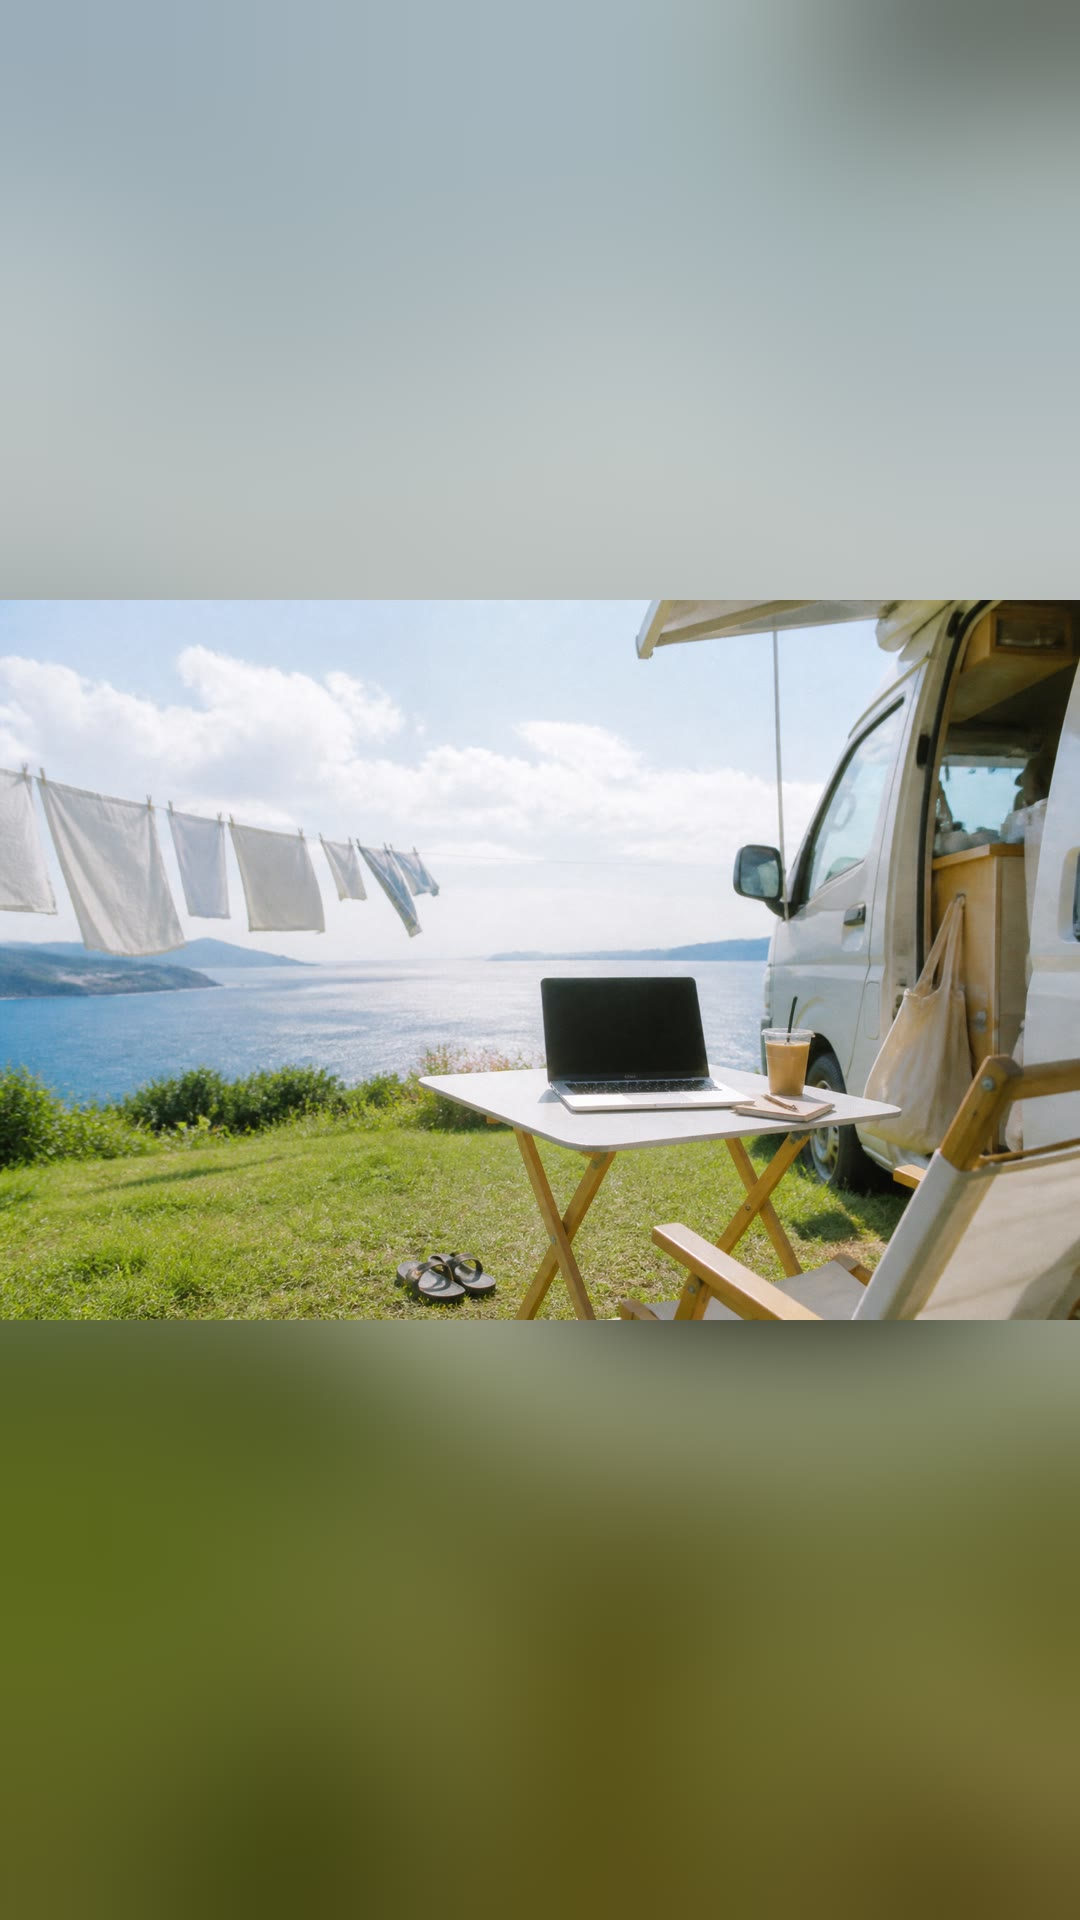
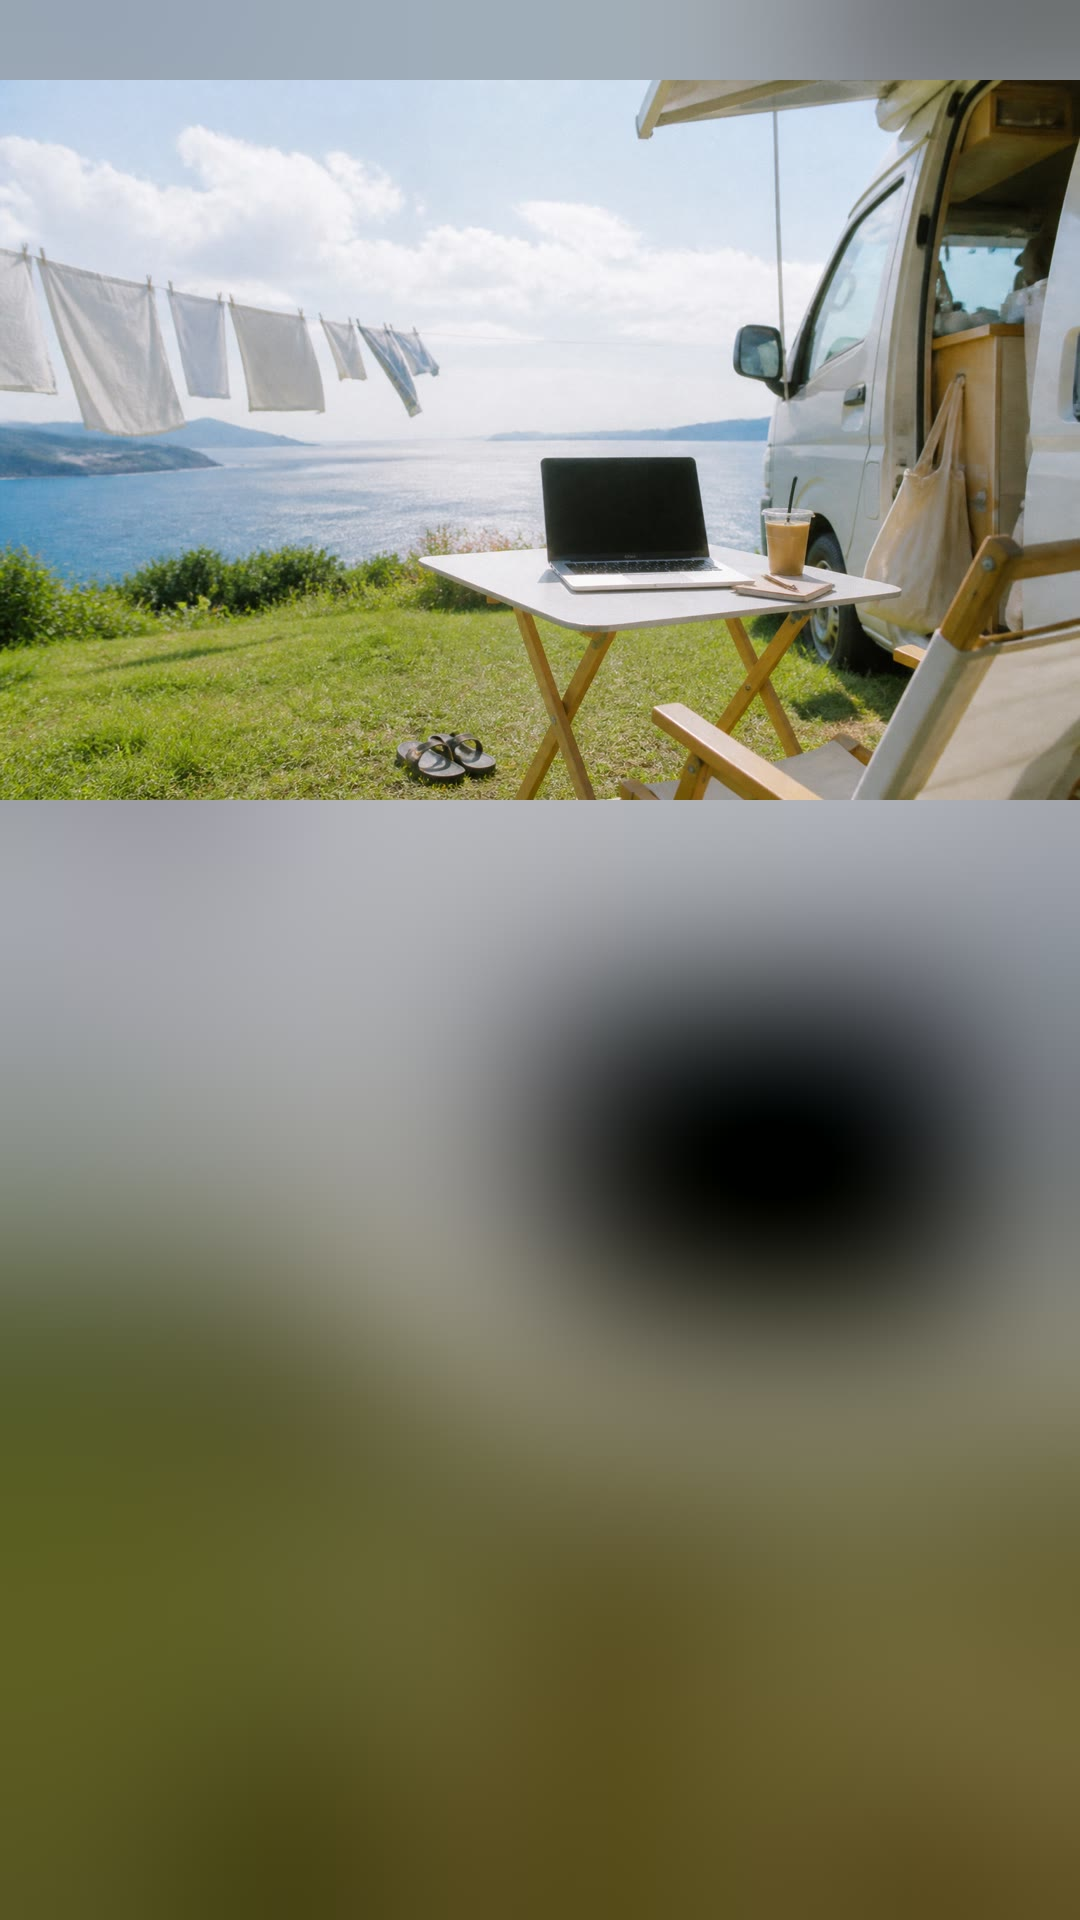
スマホで写真が上に来るようcontainと上寄せに変更

diff --git a/index.html b/index.html
@@ -2,7 +2,7 @@
 <html lang="ja">
 <head>
 <meta charset="utf-8">
-<meta name="viewport" content="width=device-width, initial-scale=1">
+<meta name="viewport" content="width=device-width, initial-scale=1, viewport-fit=cover">
 <title>場所に縛られない働き方の作り方｜無料で「環境を先に変える」手順を期間限定プレゼント！</title>
 <meta name="description" content="環境を先に変える手順（期間限定）- たっちゃんが実践した場所に縛られない働き方の始め方を無料公開">
 <link rel="preconnect" href="https://fonts.googleapis.com">
@@ -14,11 +14,13 @@
   html, body { height: 100%; background: #0a0a0a; color: #fff; }
   body { font-family: "Noto Sans JP", sans-serif; overflow-x: hidden; }
   .bg {
-    position: fixed; inset: 0; z-index: 0;
+    position: fixed; top: 0; left: 0; right: 0; z-index: 0;
+    height: 100svh;
     transition: opacity 0.8s ease;
     pointer-events: none;
-    background-size: cover;
-    background-position: center;
+    background-color: #14110e;
+    background-size: contain;
+    background-position: center 8%;
     background-repeat: no-repeat;
   }
   .bg::after {
@@ -70,7 +72,7 @@
   }
   .content { position: relative; z-index: 1; }
   section.beat {
-    min-height: 100vh;
+    min-height: 100svh;
     display: flex;
     align-items: center;
     justify-content: center;
@@ -101,7 +103,7 @@
   .lines p:nth-child(7) { transition-delay: .65s; }
   .lines p:nth-child(8) { transition-delay: .75s; }
   .cta {
-    min-height: 100vh;
+    min-height: 100svh;
     display: flex;
     align-items: center;
     justify-content: center;
@@ -146,12 +148,12 @@
 </style>
 </head>
 <body>
-  <div id="bg1" class="bg gradient-scene-1" style="opacity:1"></div>
-  <div id="bg2" class="bg gradient-scene-2" style="opacity:0"></div>
-  <div id="bg3" class="bg gradient-scene-3" style="opacity:0"></div>
-  <div id="bg4" class="bg gradient-scene-4" style="opacity:0"></div>
-  <div id="bg5" class="bg gradient-scene-5" style="opacity:0"></div>
-  <div id="bg6" class="bg gradient-cta" style="opacity:0"></div>
+  <div id="bg1" class="bg" style="opacity:1"></div>
+  <div id="bg2" class="bg" style="opacity:0"></div>
+  <div id="bg3" class="bg" style="opacity:0"></div>
+  <div id="bg4" class="bg" style="opacity:0"></div>
+  <div id="bg5" class="bg" style="opacity:0"></div>
+  <div id="bg6" class="bg" style="opacity:0"></div>
 
   <div class="content">
     <section class="beat" data-scene="1">
